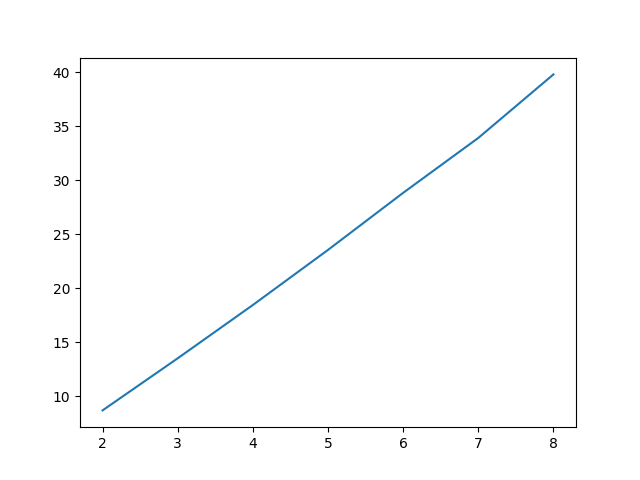
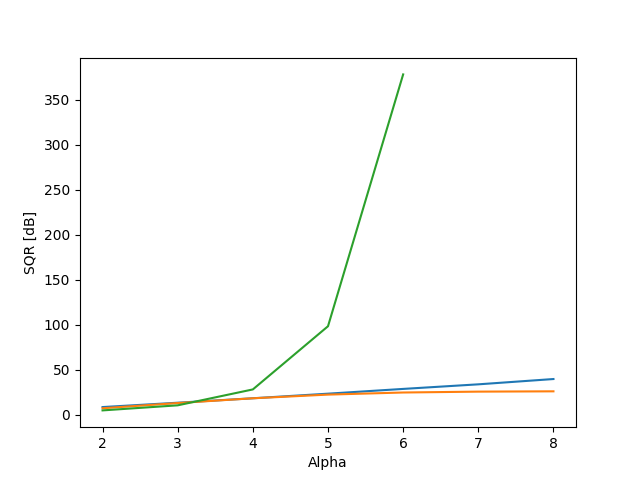
Labeling plots

diff --git a/Python/run_simulation.py b/Python/run_simulation.py
@@ -22,34 +22,42 @@ def run_kwantisatie():
 
     # Maak een figuur van de optimale SQR voor lineaire kwantisatie in dB 
     # in functie van alpha = [2,...,8], waarbij M = 2**alpha
-    """ 
+    
+    """
     print('Generating plot: optimal SQR in function of alpha..')
     alpha = np.array([i for i in range(2,9)])
     y = np.array([obj.bepaal_optimale_lineaire_kwantisator(2**i)[2] for i in range(2,9)])
+    y2 = np.array([obj.bepaal_compansie_kwantisator(2**i)[1] for i in range(2,9)])
+    y3 = np.array([obj.bepaal_Lloyd_Max_kwantisator(2**i)[1] for i in range(2,7)])
     winst = [0 for _ in range(0,6)] 
     for i in range(0,6):
         winst[i] = y[i+1] - y[i]
     print(winst)
     plt.plot(alpha, y)
+    plt.plot(alpha, y2)
+    plt.plot(alpha[:5], y3)
+    plt.xlabel("Alpha")
+    plt.ylabel("SQR [dB]")
     plt.savefig('SQR.png')
     plt.close()
     print('Done!')
     """
-    # Plot nu opnieuw de distributie fU (u) waarbij de bekomen 
-    # kwantisatiedrempels en reconstructieniveaus duidelijk zijn aangegeven.
     
     # opt_lin_kwant = obj.bepaal_optimale_lineaire_kwantisator(2**6, True)
     # r_opt_lin = opt_lin_kwant[4]
     # q_opt_lin = opt_lin_kwant[5]
     # gekwantiseerd_lin = obj.kwantiseer(r_opt_lin, q_opt_lin)
     
-
+    
     """
     print('Generating plot: fU(u)')
     plt.figure(figsize=(20,10))
     for i in range(0, 2**6):
         plt.axvline(q_opt_lin[i], 0, 0.1, color = 'k', lw = 0.5)
         plt.axvline(r_opt_lin[i], 0, 0.2, color = 'r', lw = 0.5)
+    
+    plt.xlabel("Monsterwaarde u")
+    plt.ylabel("dichtheid")
     obj.plot_distributie('fu_uniform.png')
     print('Done!')
     """
@@ -70,6 +78,8 @@ def run_kwantisatie():
         plt.axvline(q_compansie[i], 0, 0.1, color = 'k', lw = 0.5)
         plt.axvline(r_compansie[i], 0, 0.2, color = 'r', lw = 0.5)
     plt.axvline(r_compansie[2**6], 0, 0.2, color = 'r', lw = 0.5)
+    plt.xlabel("Monsterwaarde u")
+    plt.ylabel("dichtheid")
     obj.plot_distributie('fu_compansie.png')
     print('Done!')
     """
@@ -91,6 +101,8 @@ def run_kwantisatie():
         plt.axvline(q_opt[i], 0, 0.1, color = 'k', lw = 0.5)
         plt.axvline(r_opt[i], 0, 0.2, color = 'r', lw = 0.5)
     plt.axvline(r_opt[2**6], 0, 0.2, color = 'r', lw = 0.5)
+    plt.xlabel("Monsterwaarde u")
+    plt.ylabel("dichtheid")
     obj.plot_distributie('fu_opt.png')
     print('Done!')
     """
@@ -101,40 +113,50 @@ def run_kwantisatie():
     #obj.save_and_play_music(obj.kwantiseer(r_opt_lin, q_opt_lin), "uniform.wav", 0)
     #obj.save_and_play_music(obj.kwantiseer(r_compansie, q_compansie), "compansie.wav", 0)
     #obj.save_and_play_music(np.array(obj.kwantiseer(r_opt, q_opt)), "LM.wav", 0)
-
+    
     return (r_opt,q_opt,gekwantiseerd_opt)
 
     
 def run_broncodering():
     obj = Broncodering()
     
-    print('Kwantisatie')
+    print('Kwantisatie\n')
     r, q, bronsymbolen = run_kwantisatie()
     r = r.tolist()
     q = q.tolist()
 
 
-    print('Bron -> Macro')
+    print('rel_freq')
     alfabet_scalair = q
-    macrosymbolen, alfabet_vector, rel_freq = obj.scalair_naar_vector(bronsymbolen, alfabet_scalair)
+    rel_freq = [0 for _ in range(len(alfabet_scalair))]
+    aantal_symbolen = 0
+    while len(bronsymbolen) > 1:
+        aantal_symbolen += 1
+        index = alfabet_scalair.index(bronsymbolen[0])
+        rel_freq[index] += 1
+        del bronsymbolen[0]
+
+    for index, element in enumerate(rel_freq):
+        rel_freq[index] = element / aantal_symbolen
+
     entropie = 0.0
     for kans in rel_freq:
         if kans != 0.0:
             entropie -= kans*np.log2(kans)
-    print('entropie = ', entropie)
+    print('entropie = ', entropie, '\n')
     
 
     print('Codetabel + dictionary')
-    index_lijst = [i + 1 for i in range(len(alfabet_vector))]
+    index_lijst = [i + 1 for i in range(len(alfabet_scalair))]
     dictionary, gem_len, codetabel = obj.maak_codetabel_Huffman(rel_freq, index_lijst)
-    print('gem_len = ', gem_len)
+    print('gem_len = ', gem_len, '\n')
 
 
-    print('Macro -> binair')
-    data_binair = obj.Huffman_encodeer(np.array(macrosymbolen), dictionary)
+    print('Huffman_encodeer\n')
+    data_binair = obj.Huffman_encodeer(np.array(bronsymbolen), dictionary)
     data_binair_str = ''
     for datapoint in data_binair:
-        data_binair_str += datapoint
+        data_binair_str += str(datapoint)
 
     return data_binair_str
 
@@ -220,7 +242,7 @@ def run_moddet():
 warnings.simplefilter('ignore') # ignore warnings of integral
 
 
-#run_kwantisatie()
-run_broncodering()
+run_kwantisatie()
+#run_broncodering()
 #run_kanaalcodering()
 #run_moddet()

diff --git a/Python/kwantisatie.py b/Python/kwantisatie.py
@@ -154,7 +154,7 @@ class Kwantisatie():
         return Uvec
     
     # functie om distributie en genormaliseerd histogram te plotten
-    def plot_distributie(self, filename):
+    def plot_distributie(self):
         data = self.data # originele monsterwaarden
         f_u = self.f_u # w.d.f. - anonieme functie
         
@@ -164,7 +164,9 @@ class Kwantisatie():
         y = fu(u)
         plt.plot(u,y)
         plt.hist(data, density=True)
-        plt.savefig(filename, dpi=300)
+        plt.xlabel("Monsterwaarde u")
+        plt.ylabel("Dichtheid f(u)")
+        plt.savefig('distributie.png')
         plt.close()
         
     
@@ -210,6 +212,8 @@ class Kwantisatie():
             plt.plot(delta,y)
             plt.plot(delta_2,y_2)
             plt.plot(delta_3,y_3)
+            plt.xlabel("Delta")
+            plt.ylabel("GKD")
             plt.savefig('sigma.png')
             plt.close()
 
@@ -340,7 +344,9 @@ class Kwantisatie():
         g_u_vec = np.vectorize(g_u)
         Uvec = np.linspace(-1, 1, 100)         
         Yvals = g_u_vec(Uvec)
-        plt.plot(Uvec, Yvals)   
+        plt.plot(Uvec, Yvals)  
+        plt.xlabel("u")
+        plt.ylabel("g(u)")
         plt.savefig('gu.png')
         plt.close()
 
